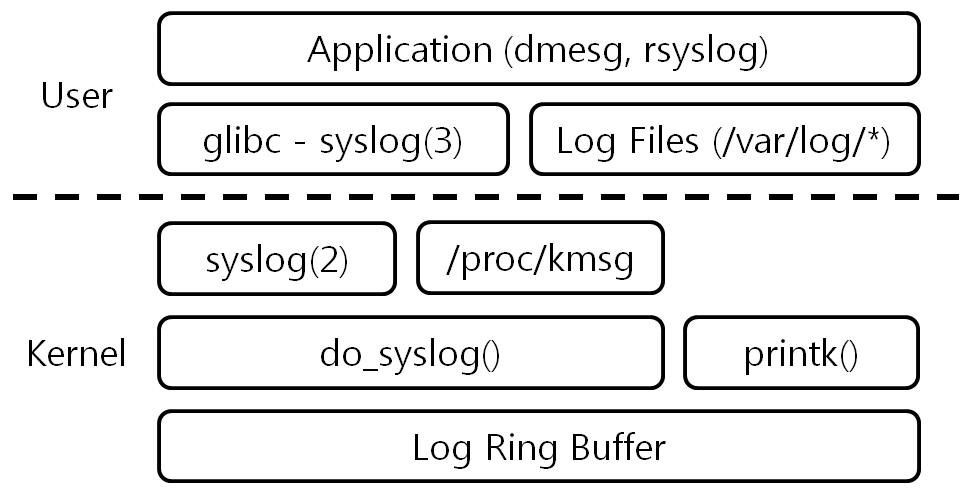
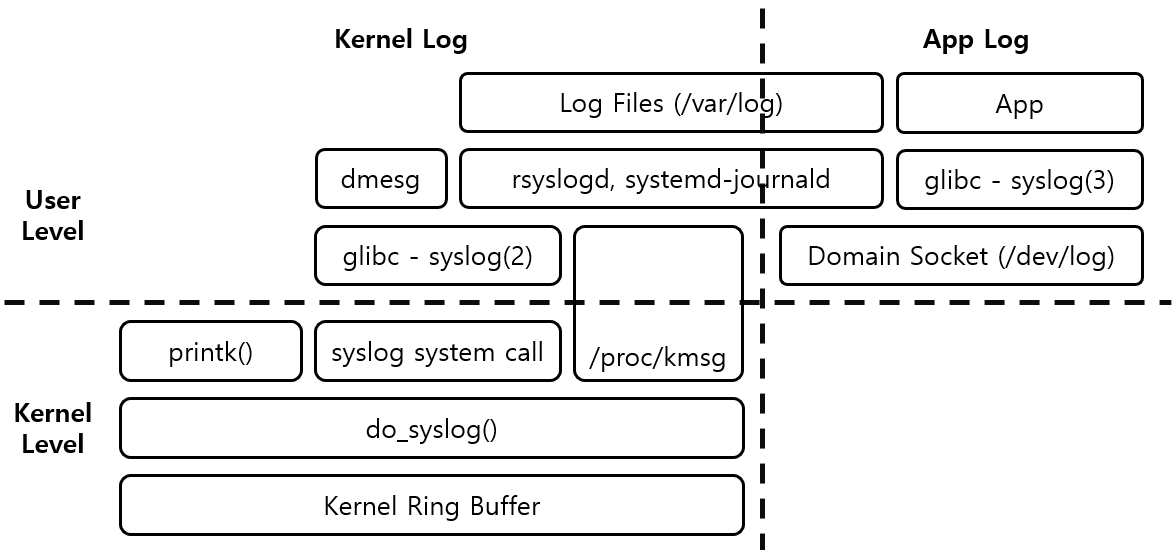
Update Kernel Log

Changed region(s): [[0.0, 0.0, 1.0, 1.0], [0.031, 0.1811, 0.124, 0.2113], [0.9607, 0.4829, 0.9917, 0.5131]]

diff --git a/_docs/theory_analysis/Linux_Log.md b/_docs/theory_analysis/Linux_Log.md
@@ -11,29 +11,24 @@ Linux Log 관련 구성 요소와 역활을 분석한다.
 
 ### 1. Linux Log
 
-![]({{site.baseurl}}/images/theory_analysis/Linux_Log/Linux_Log_Component.PNG){: width="600px"}
+![]({{site.baseurl}}/images/theory_analysis/Linux_Log/Linux_Log_Component.PNG)
 
-위의 그림은 Linux Log 관련 구성요소를 나타내고 있다. Log의 내용을 Kernel Log와 User Log로 분류 할 수 있다.
+위의 그림은 Linux Log 관련 구성요소를 나타내고 있다. Log는 Kernel Log와 User Log로 분류 할 수 있다.
 
 ### 2. Kernel Log
 
-Linux Kernel이 남기는 Log를 의미한다. Kernel Log 관련 구성요소는 Kernel Level과 User Level로 분류 할 수 있다.
+Kernel Log는 의미 그대로 Kernel이 남기는 Log를 의미한다. Ring Buffer는 Kernel Log를 임시로 저장하는 Kernel Memory 공간이다. Memory이기 때문에 재부팅을 하면 이전의 Kernel Log 내용은 사라진다. 또한 Ring Buffer이기 때문에 Kernel Log가 Ring Buffer 용량을 초과하는 경우 오래된 Kernel Log부터 덮어 씌우는 방식이다.
 
-#### 2.1. Kernel Level
+Ring Buffer는 Kernel의 do_syslog() 함수를 통해 접근 및 제어를 할 수 있다. Kernel에서 Kernel Log를 남기기 위해서 이용되는 printk() 함수는 실제로 do_syslog() 함수를 통해서 Kernel Log를 Ring Buffer에 Write하는 동작을 수행한다. User Level에서 Kernel Log를 얻기위해 이용되는 syslog(2) 함수(System Call)나 /proc/kmsg 파일은 do_syslog() 함수를 통해 Ring Buffer에 접근하여 Kernel Log를 얻는다.
 
-Kernel에는 Kernel Log를 저장하는 Log Ring Buffer가 있다. Log Ring Buffer를 접근하는 함수는 do_syslog()와 printk() 함수가 있다. do_syslog() 함수는 요청에 따라 Log Ring Buffer를 읽거나 Clear하는 동작을 수행한다. do_syslog() 함수는 User Level에서 syslog(2) System Call이나 /proc/kmsg를 통해 호출 된다. printk()는 Kernel Level에서 Log 기록을 위한 Kernel Level 전용 함수이다. User Level에서는 이용하지 못한다.
-
-#### 2.2. User Level
-
-glibc는 App 개발자가 Kernel Log를 쉽게 이용 할수 있도록 syslog(2) System Call을 Wrapping한 syslog(3) 함수를 제공한다. Application은 syslog(3) 함수나 /proc/kmsg를 통해 Kernel의 Log Ring Buffer에 접근 할 수 있다. dmesg는 glibc의 syslog(3)를 이용하여 Log Ring Buffer를 읽거나 제어하는 App이다. rsyslog는 Daemon으로 dmesg와 유사하게 syslog(3)를 이용하여 Kernel Log를 읽어와 /var/log 폴더 아래 저장한다.
-
-시간이 지나 Kernel의 Log Ring Buffer에 없는 내용은 rsyslog가 저장한 /var/log 폴더 아래의 Log 파일에서 확인 가능하다. rsyslog가 동작하기 이전의 Kernel Booting Log는 dmesg를 통해 볼 수 있다.
+dmesg는 syslog(2) 함수를 통해 Kernel Log를 User가 볼 수 있도록 한다. 또한 rsyslogd나 systemd-journald는 syslog(2)나 /proc/kmsg를 통해서 Kernel Log를 /var/log 폴더에 파일로 기록하여 보관되도록 한다.
 
 ### 3. User Log
 
-Application이 남기는 Log를 의미한다. rsyslog는 Kernel Log 뿐만 아니라 Application의 Log도 기록한다. User Log도 Kernel Log와 동일하게 /var/log 폴더 아래 저장된다.
+User Log는 App이 남기는 Log를 의미한다. App은 syslog(3) 함수를 이용하여 App Log를 남길 수 있다. syslog(3) 함수는 /dev/log Domain Socket을 통해서 App Log를 rsyslogd나 systemd-journald에게 전달한다. rsyslogd나 systemd-journald는 전달받은 App Log를 /var/log 폴더에 파일로 남긴다.
 
 ### 4. 참조
 
 * [https://www.ibm.com/developerworks/library/l-kernel-logging-apis/](https://www.ibm.com/developerworks/library/l-kernel-logging-apis/)
+* [https://unix.stackexchange.com/questions/205883/understand-logging-in-linux/294206#294206](https://unix.stackexchange.com/questions/205883/understand-logging-in-linux/294206#294206)
 * [https://unix.stackexchange.com/questions/35851/whats-the-difference-of-dmesg-output-and-var-log-messages](https://unix.stackexchange.com/questions/35851/whats-the-difference-of-dmesg-output-and-var-log-messages)
